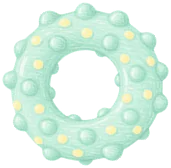
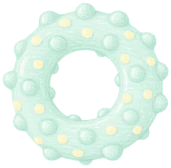
feat(web): 장난감 벽지를 더 연하게(농도 60% → 42%)

diff --git a/tools/sticker-assets/build_web_toy_stickers.py b/tools/sticker-assets/build_web_toy_stickers.py
@@ -1,6 +1,6 @@
 # 웹 배경 "강아지 장난감 벽지" 스티커 만들기(2026-10-18) — 장난감 그림 9장(originals/web-toys) → 작은 스티커 18장
 # - 장난감마다 방향이 다른 2장(a: 기울기, b: 좌우 뒤집기 + 다른 기울기) — 같은 장난감도 매번 다른 방향으로 보이게
-# - 농도 60%(사용자 결정)를 그림에 미리 넣음 — 화면에서 투명도 처리를 따로 하지 않아도 되게(가벼움)
+# - 농도 42%(2026-10-19 사용자 "좀더 연하게" · 처음 60%)를 그림에 미리 넣음 — 화면에서 투명도 처리를 따로 하지 않아도 되게(가벼움)
 # - 크기는 화면 최대 약 110px × 2배 선명도 = 긴 변 220px 안. 한 장 수 KB · 18장 합쳐도 폰 메모리 2MB 안팎
 #   (예전 무늬 한 장 3000px 은 메모리 약 36MB)
 # 사용: python tools/sticker-assets/build_web_toy_stickers.py
@@ -11,7 +11,7 @@ HERE = os.path.dirname(os.path.abspath(__file__))
 SRC = os.path.join(HERE, "originals", "web-toys", "toy-{}.webp")
 OUT = os.path.join(HERE, "..", "..", "public", "images", "ui", "toys")
 MAX = 220          # 긴 변(px)
-OPACITY = 0.6      # 농도 60%
+OPACITY = 0.42     # 농도 42%(처음 60% → 2026-10-19 더 연하게)
 os.makedirs(OUT, exist_ok=True)
 rnd = random.Random(2026_10_18)
 for i in range(1, 10):
